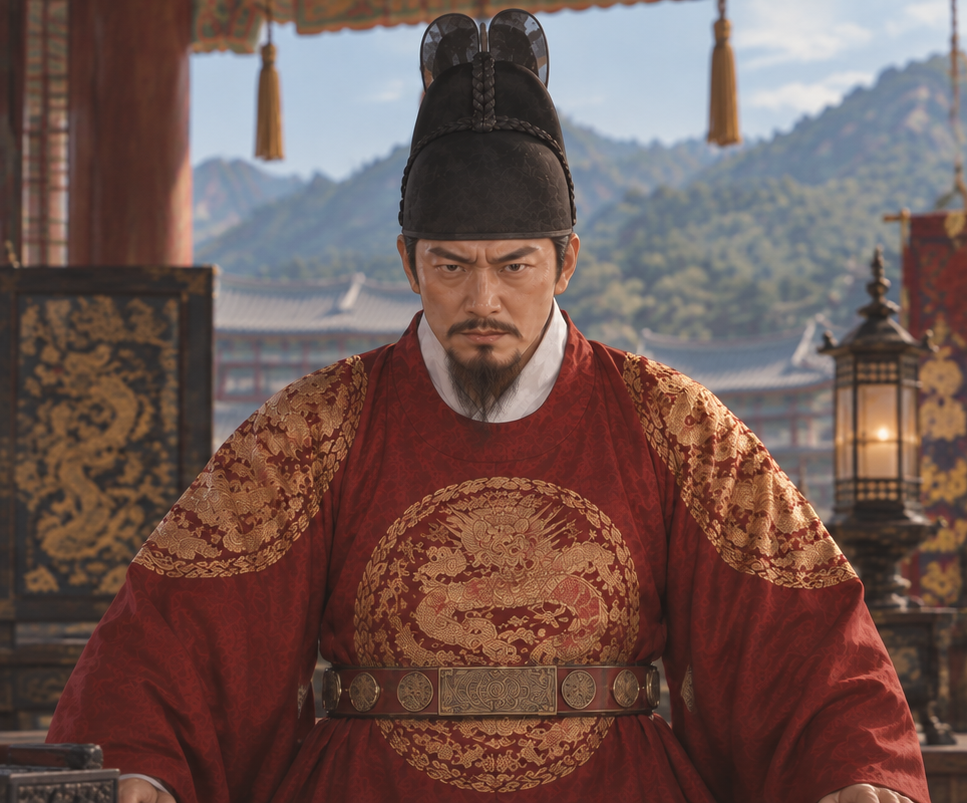
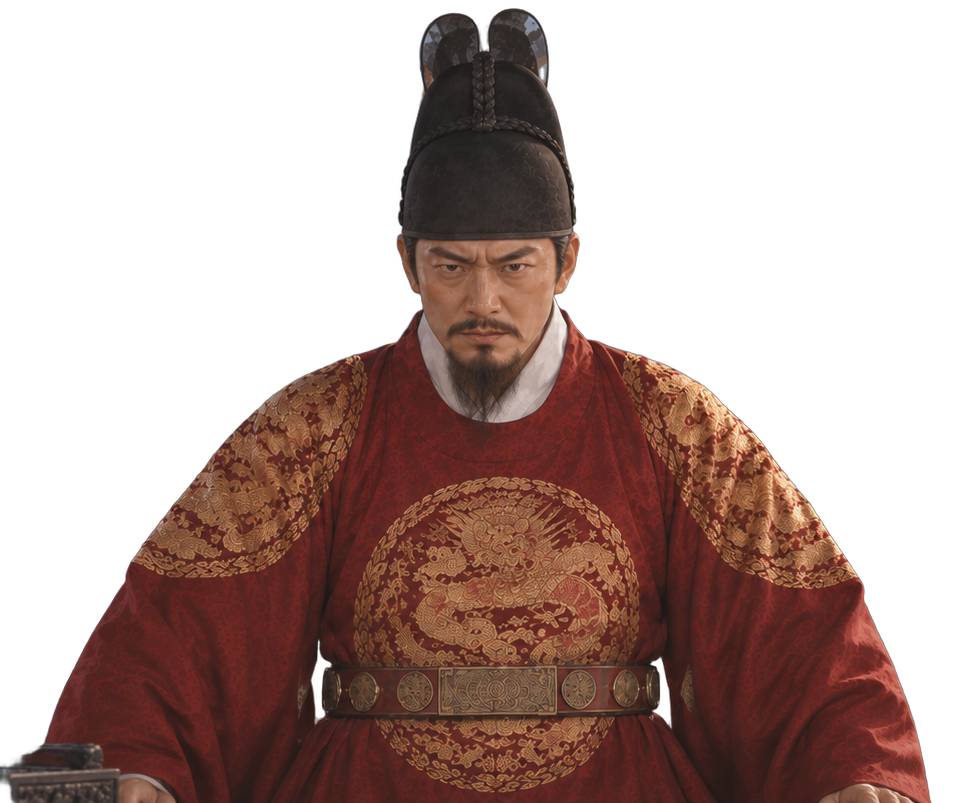
이미지 누끼

diff --git a/FE/data/stories/jeongjo.ts b/FE/data/stories/jeongjo.ts
@@ -14,7 +14,7 @@ export const jeongjoStory = {
     // =========================================================
     1: {
       title: "새벽의 활터, 세손의 고독",
-
+      
       background: "step1",
 
       characters: ["young_jeongjo"],

diff --git a/remove_bg.py b/remove_bg.py
@@ -4,7 +4,7 @@ import os
 
 # 누끼를 적용할 폴더
 folders = [
-    "FE/public/images/sejong/characters"
+    "FE/public/images/jeongjo/young"
 ]
 
 for folder in folders:
